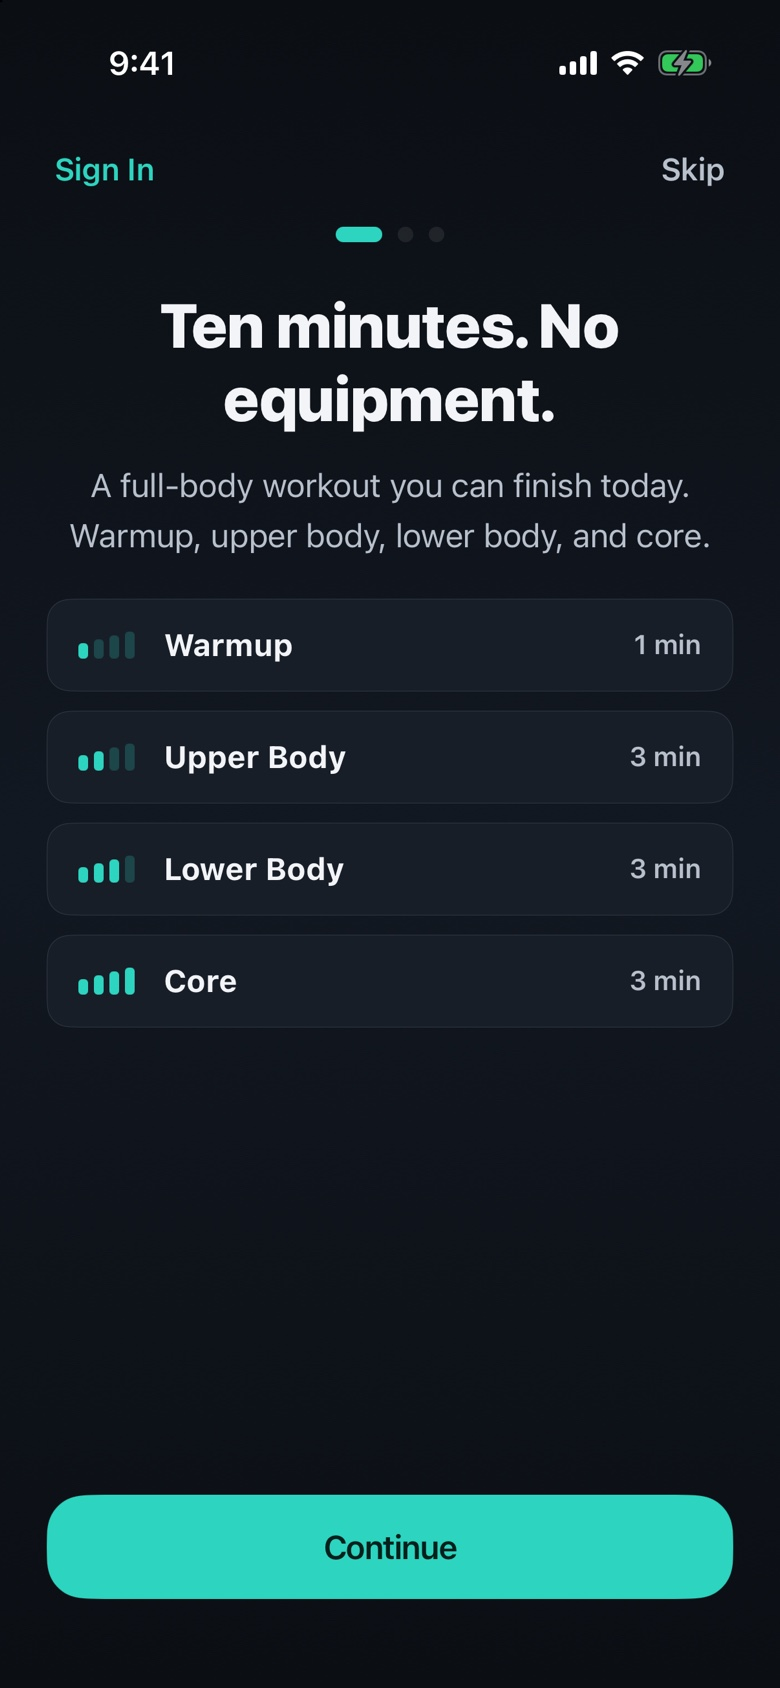
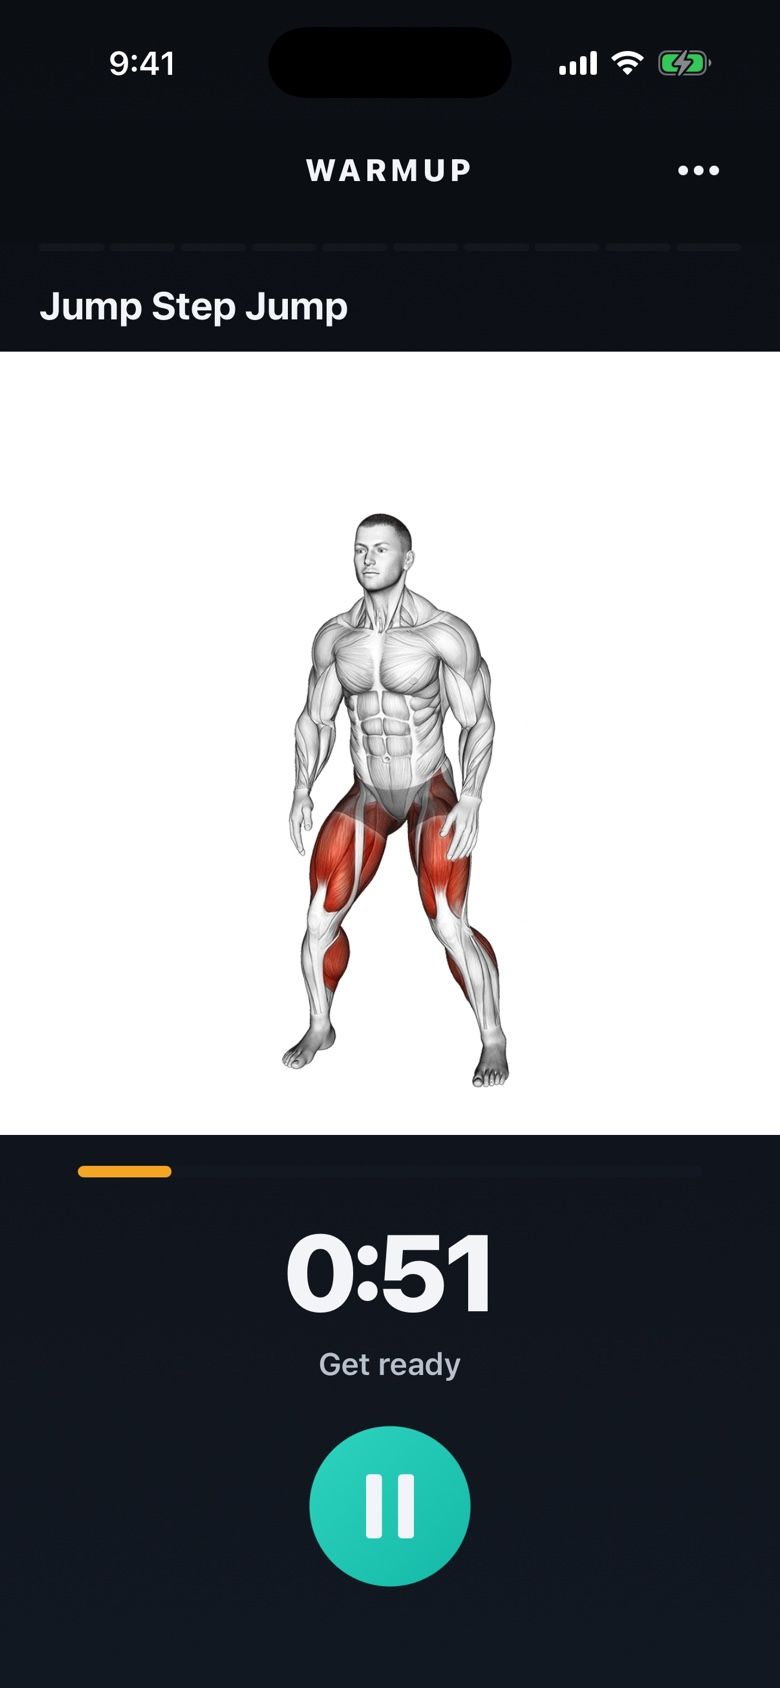
Use the TENFOLD workout screen as its site screenshot

diff --git a/src/app/page.tsx b/src/app/page.tsx
@@ -153,7 +153,7 @@ export default function Home() {
                 width={780}
                 height={1688}
                 loading="eager"
-                alt="TENFOLD onboarding screen: ten minutes, no equipment, split into warmup, upper body, lower body and core"
+                alt="TENFOLD mid-workout: Jump Step Jump in the warmup, with a timer and pause button"
               />
               <PhoneShot
                 className="p3"
@@ -300,7 +300,7 @@ export default function Home() {
                 src={assets.tenfoldHome}
                 width={780}
                 height={1688}
-                alt="TENFOLD showing the four parts of a ten-minute workout"
+                alt="TENFOLD workout screen with the exercise demo and countdown timer"
               />
             </article>
             <article className="plate" data-bg="rush">

diff --git a/src/app/apps/app1/page.tsx b/src/app/apps/app1/page.tsx
@@ -41,7 +41,7 @@ export default function AppOnePage() {
             <div className={styles.phoneFrame}>
               <img 
                 src="/TENFOLD_Screenshot.jpg" 
-                alt="TENFOLD onboarding: Ten minutes, no equipment, with warmup, upper body, lower body and core listed"
+                alt="TENFOLD workout screen: Jump Step Jump in the warmup, with an exercise demo, countdown timer and pause button"
                 className={styles.appScreenshot}
               />
             </div>

diff --git a/src/content/home.ts b/src/content/home.ts
@@ -195,7 +195,7 @@ export const contactBand = {
 } as const
 
 export const assets = {
-  tenfoldHome: '/afterglow/tenfold-onboarding.jpg',
+  tenfoldHome: '/afterglow/tenfold-workout.jpg',
   rrSwipe: '/afterglow/rr-swipe.jpg',
   golfScore: '/afterglow/golf-score.jpg',
   golfMap: '/afterglow/golf-map.jpg',
